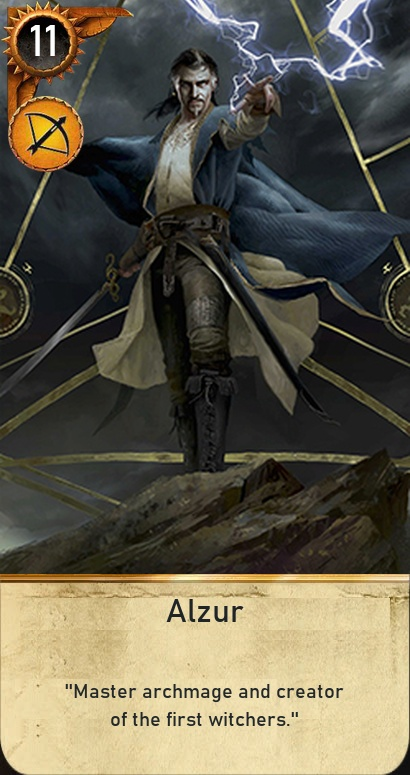
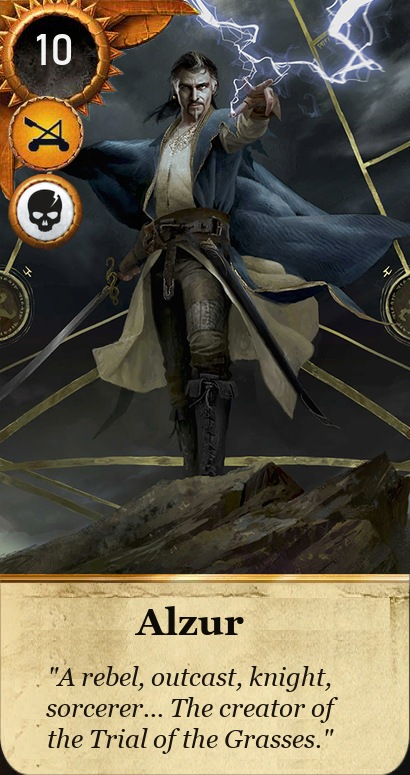
feat(gwent): add 47 witcher cards across all witcher schools and factions (v122)

diff --git a/games/gwent/cards.js b/games/gwent/cards.js
@@ -427,5 +427,52 @@ var card_dict = JSON.parse(
 + ', {"name": "Knickers", "nameRu": "Панталон", "id": "", "deck": "neutral", "row": "close", "strength": "3", "ability": "morale", "filename": "knickers", "count": "1"}'
 + ', {"name": "Gascon", "nameRu": "Гаскон", "id": "", "deck": "neutral", "row": "agile", "strength": "5", "ability": "spy", "filename": "gascon", "count": "1"}'
 + ', {"name": "Iris von Everec", "nameRu": "Ирис фон Эверек", "id": "", "deck": "neutral", "row": "siege", "strength": "4", "ability": "medic", "filename": "iris_von_everec", "count": "1"}'
++ ', {"name": "Eskel", "nameRu": "Эскель", "id": "", "deck": "neutral", "row": "close", "strength": "6", "ability": "", "filename": "eskel", "count": "1"}'
++ ', {"name": "Lambert", "nameRu": "Ламберт", "id": "", "deck": "neutral", "row": "close", "strength": "6", "ability": "", "filename": "lambert", "count": "1"}'
++ ', {"name": "Eskel: Pathfinder", "nameRu": "Эскель: следопыт", "id": "", "deck": "neutral", "row": "close", "strength": "8", "ability": "hero", "filename": "eskel_pathfinder", "count": "1"}'
++ ', {"name": "Lambert: Swordmaster", "nameRu": "Ламберт: мечник", "id": "", "deck": "neutral", "row": "close", "strength": "8", "ability": "hero", "filename": "lambert_swordmaster", "count": "1"}'
++ ', {"name": "Vesemir: Mentor", "nameRu": "Весемир: наставник", "id": "", "deck": "neutral", "row": "close", "strength": "8", "ability": "hero morale", "filename": "vesemir_mentor", "count": "1"}'
++ ', {"name": "Berengar", "nameRu": "Беренгар", "id": "", "deck": "neutral", "row": "close", "strength": "8", "ability": "hero", "filename": "berengar", "count": "1"}'
++ ', {"name": "Leo", "nameRu": "Лео", "id": "", "deck": "neutral", "row": "close", "strength": "4", "ability": "morale", "filename": "leo", "count": "1"}'
++ ', {"name": "Coën", "nameRu": "Коэн", "id": "", "deck": "neutral", "row": "close", "strength": "8", "ability": "hero", "filename": "coen", "count": "1"}'
++ ', {"name": "Geralt: Quen", "nameRu": "Геральт: Квен", "id": "", "deck": "neutral", "row": "close", "strength": "9", "ability": "hero", "filename": "geralt_quen", "count": "1"}'
++ ', {"name": "Geralt: Axii", "nameRu": "Геральт: Аксий", "id": "", "deck": "neutral", "row": "ranged", "strength": "9", "ability": "hero spy", "filename": "geralt_axii", "count": "1"}'
++ ', {"name": "Geralt: Yrden", "nameRu": "Геральт: Ирден", "id": "", "deck": "neutral", "row": "siege", "strength": "10", "ability": "hero scorch_s", "filename": "geralt_yrden", "count": "1"}'
++ ', {"name": "Geralt: Professional", "nameRu": "Геральт: профессионал", "id": "", "deck": "neutral", "row": "close", "strength": "11", "ability": "hero scorch_c", "filename": "geralt_professional", "count": "1"}'
++ ', {"name": "Ciri: Dash", "nameRu": "Цири: натиск", "id": "", "deck": "neutral", "row": "agile", "strength": "12", "ability": "hero", "filename": "ciri_dash", "count": "1"}'
++ ', {"name": "Alzur", "nameRu": "Альзур", "id": "", "deck": "neutral", "row": "siege", "strength": "10", "ability": "hero scorch_s", "filename": "alzur", "count": "1"}'
++ ', {"name": "Madoc", "nameRu": "Мадок", "id": "", "deck": "neutral", "row": "ranged", "strength": "6", "ability": "scorch_r", "filename": "madoc", "count": "1"}'
++ ', {"name": "Ivo of Belhaven", "nameRu": "Иво из Бельхавена", "id": "", "deck": "neutral", "row": "ranged", "strength": "7", "ability": "hero", "filename": "ivo_of_belhaven", "count": "1"}'
++ ', {"name": "Witcher Student", "nameRu": "Студент-ведьмак", "id": "", "deck": "neutral", "row": "close", "strength": "3", "ability": "muster", "filename": "witcher_student", "count": "3"}'
++ ', {"name": "Erland of Larvik", "nameRu": "Эрланд из Ларвика", "id": "", "deck": "realms", "row": "close", "strength": "10", "ability": "hero morale", "filename": "erland_of_larvik", "count": "1"}'
++ ', {"name": "Keldar", "nameRu": "Келдар", "id": "", "deck": "realms", "row": "close", "strength": "8", "ability": "hero", "filename": "keldar", "count": "1"}'
++ ', {"name": "Griffin Witcher", "nameRu": "Ведьмак Школы Грифона", "id": "", "deck": "realms", "row": "close", "strength": "5", "ability": "bond", "filename": "griffin_witcher", "count": "3"}'
++ ', {"name": "Griffin Witcher Adept", "nameRu": "Адепт Школы Грифона", "id": "", "deck": "realms", "row": "close", "strength": "4", "ability": "muster", "filename": "griffin_witcher_adept", "count": "3"}'
++ ', {"name": "Griffin Witcher Mentor", "nameRu": "Наставник Школы Грифона", "id": "", "deck": "realms", "row": "close", "strength": "4", "ability": "morale", "filename": "griffin_witcher_mentor", "count": "2"}'
++ ', {"name": "Griffin Witcher Ranger", "nameRu": "Рейнджер Школы Грифона", "id": "", "deck": "realms", "row": "ranged", "strength": "4", "ability": "scorch_r", "filename": "griffin_witcher_ranger", "count": "2"}'
++ ', {"name": "Mad Kiyan", "nameRu": "Безумный Киян", "id": "", "deck": "realms", "row": "close", "strength": "7", "ability": "scorch_c", "filename": "mad_kiyan", "count": "1"}'
++ ', {"name": "Ivar Evil-Eye", "nameRu": "Ивар Дурной Глаз", "id": "", "deck": "nilfgaard", "row": "close", "strength": "10", "ability": "hero scorch_c", "filename": "ivar_evil_eye", "count": "1"}'
++ ', {"name": "Kolgrim", "nameRu": "Колгрим", "id": "", "deck": "nilfgaard", "row": "close", "strength": "7", "ability": "hero", "filename": "kolgrim", "count": "1"}'
++ ', {"name": "Warritt the All-Seeing", "nameRu": "Варрит Всевидящий", "id": "", "deck": "nilfgaard", "row": "close", "strength": "8", "ability": "hero spy", "filename": "warritt_all_seeing", "count": "1"}'
++ ', {"name": "Letho: Kingslayer", "nameRu": "Лето: Убийца королей", "id": "", "deck": "nilfgaard", "row": "close", "strength": "9", "ability": "hero", "filename": "letho_kingslayer", "count": "1"}'
++ ', {"name": "Viper Witcher", "nameRu": "Ведьмак Школы Змеи", "id": "", "deck": "nilfgaard", "row": "close", "strength": "4", "ability": "bond", "filename": "viper_witcher", "count": "3"}'
++ ', {"name": "Viper Witcher Adept", "nameRu": "Адепт Школы Змеи", "id": "", "deck": "nilfgaard", "row": "close", "strength": "4", "ability": "bond", "filename": "viper_witcher_adept", "count": "3"}'
++ ', {"name": "Viper Witcher Mentor", "nameRu": "Наставник Школы Змеи", "id": "", "deck": "nilfgaard", "row": "close", "strength": "3", "ability": "morale", "filename": "viper_witcher_mentor", "count": "2"}'
++ ', {"name": "Viper Witcher Alchemist", "nameRu": "Алхимик Школы Змеи", "id": "", "deck": "nilfgaard", "row": "ranged", "strength": "4", "ability": "medic", "filename": "viper_witcher_alchemist", "count": "2"}'
++ ', {"name": "Kingslayer", "nameRu": "Убийца королей", "id": "", "deck": "nilfgaard", "row": "close", "strength": "5", "ability": "scorch_c", "filename": "kingslayer", "count": "2"}'
++ ', {"name": "Gaetan", "nameRu": "Гаэтан", "id": "", "deck": "scoiatael", "row": "close", "strength": "8", "ability": "hero scorch_c", "filename": "gaetan", "count": "1"}'
++ ', {"name": "Brehen", "nameRu": "Бреген", "id": "", "deck": "scoiatael", "row": "close", "strength": "7", "ability": "hero", "filename": "brehen", "count": "1"}'
++ ', {"name": "Cat Witcher", "nameRu": "Ведьмак Школы Кота", "id": "", "deck": "scoiatael", "row": "agile", "strength": "4", "ability": "bond", "filename": "cat_witcher", "count": "3"}'
++ ', {"name": "Cat Witcher Adept", "nameRu": "Адепт Школы Кота", "id": "", "deck": "scoiatael", "row": "agile", "strength": "4", "ability": "muster", "filename": "cat_witcher_adept", "count": "3"}'
++ ', {"name": "Cat Witcher Mentor", "nameRu": "Наставник Школы Кота", "id": "", "deck": "scoiatael", "row": "close", "strength": "3", "ability": "morale", "filename": "cat_witcher_mentor", "count": "2"}'
++ ', {"name": "Cat Witcher Saboteur", "nameRu": "Диверсант Школы Кота", "id": "", "deck": "scoiatael", "row": "ranged", "strength": "5", "ability": "scorch_r", "filename": "cat_witcher_saboteur", "count": "2"}'
++ ', {"name": "Gerd", "nameRu": "Герд", "id": "", "deck": "skellige", "row": "close", "strength": "10", "ability": "hero", "filename": "gerd", "count": "1"}'
++ ', {"name": "Junod of Belhaven", "nameRu": "Джунод из Бельхавена", "id": "", "deck": "skellige", "row": "close", "strength": "8", "ability": "hero", "filename": "junod_of_belhaven", "count": "1"}'
++ ', {"name": "Bear Witcher", "nameRu": "Ведьмак Школы Медведя", "id": "", "deck": "skellige", "row": "close", "strength": "5", "ability": "berserker", "filename": "bear_witcher", "count": "3"}'
++ ', {"name": "Bear Witcher Adept", "nameRu": "Адепт Школы Медведя", "id": "", "deck": "skellige", "row": "close", "strength": "4", "ability": "bond", "filename": "bear_witcher_adept", "count": "3"}'
++ ', {"name": "Bear Witcher Mentor", "nameRu": "Наставник Школы Медведя", "id": "", "deck": "skellige", "row": "close", "strength": "4", "ability": "morale", "filename": "bear_witcher_mentor", "count": "2"}'
++ ', {"name": "Bear Witcher Quartermaster", "nameRu": "Квартирмейстер Школы Медведя", "id": "", "deck": "skellige", "row": "close", "strength": "5", "ability": "bond", "filename": "bear_witcher_quartermaster", "count": "2"}'
++ ', {"name": "Savolla", "nameRu": "Саволла", "id": "", "deck": "syndicate", "row": "close", "strength": "8", "ability": "hero scorch_c", "filename": "savolla", "count": "1"}'
++ ', {"name": "Fallen Rayla", "nameRu": "Падшая Райла", "id": "", "deck": "syndicate", "row": "close", "strength": "7", "ability": "hero", "filename": "fallen_rayla", "count": "1"}'
 + ']'
 );

diff --git a/games/gwent/index.html b/games/gwent/index.html
@@ -355,13 +355,13 @@
 <div data-title="Toggle sound effects" id="toggle-sfx" class="center deck-menu settings-button"><img src="svg/sfx.svg"></img></div>
 <div data-title="Toggle game messages" id="toggle-notifications" class="center deck-menu settings-button"><img src="svg/notification.svg"></img></div>
 
-<script type="text/javascript" src="common.js?v=121"></script>
-<script type="text/javascript" src="cards.js?v=121"></script>
-<script type="text/javascript" src="decks.js?v=121"></script>
-<script type="text/javascript" src="abilities.js?v=121"></script>
-<script type="text/javascript" src="factions.js?v=121"></script>
+<script type="text/javascript" src="common.js?v=122"></script>
+<script type="text/javascript" src="cards.js?v=122"></script>
+<script type="text/javascript" src="decks.js?v=122"></script>
+<script type="text/javascript" src="abilities.js?v=122"></script>
+<script type="text/javascript" src="factions.js?v=122"></script>
 <script src="https://www.youtube.com/iframe_api"></script>
-<script type="text/javascript" src="gwent.js?v=121"></script>
+<script type="text/javascript" src="gwent.js?v=122"></script>
 </body>
 
 </html>

diff --git a/sw.js b/sw.js
@@ -1,4 +1,4 @@
-const CACHE_NAME = 'compendium-cache-v121';
+const CACHE_NAME = 'compendium-cache-v122';
 const APP_SHELL = [
   './',
   './index.html',
